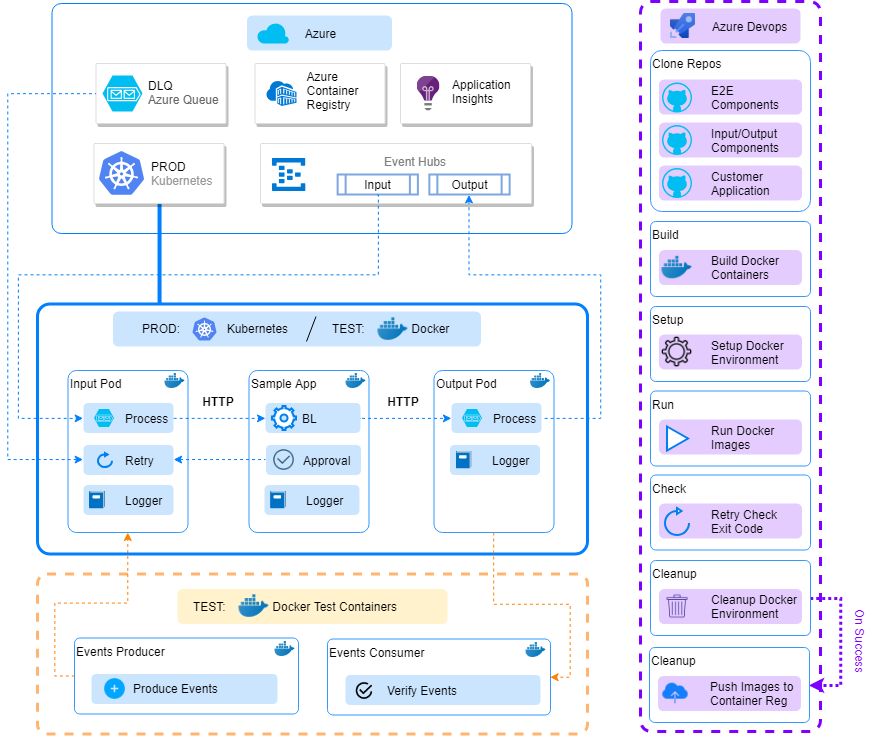
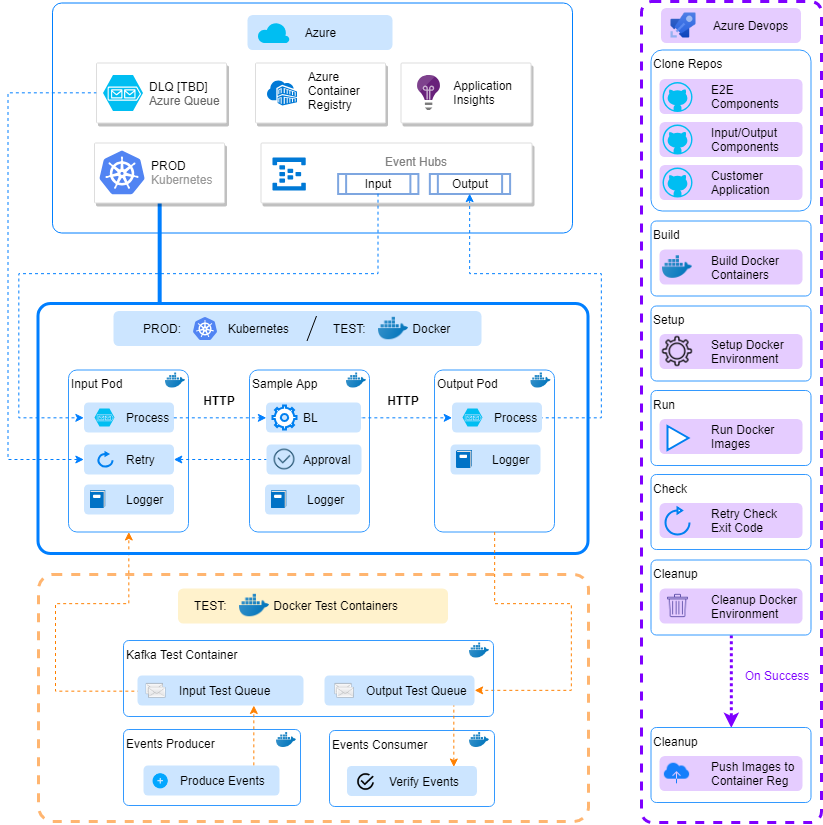
update test containers in design

diff --git a/docs/assets/design/Design.MD b/docs/assets/design/Design.MD
@@ -6,11 +6,18 @@
 
 ## Requirements
 
-- The Azure DevOps pipeline is responsible to get the latest (or specified) branchs of Github code, clone, build run unit tests, linting tests, E2E tests and finally if all tests passed, push the new docker images to a container registry
-- The customer's application is a place holder for any application image. The only requirement is to implement a the HTTP endpoints protocol (TBD)
-- The Input/Output components are responsible to handle the connectivity to the different events hubs, instead of the app itself:
-  - responsible for the interaction with different events sources such as Azure EventHubs, Kafka and HTTP (for batching)
-  - responsible for retrying failed messages
+- The Azure DevOps pipeline is executes the following:
+  - Clone the latest (or specific) branches of a Github repository.
+  - Build the repo.
+  - Run linting and unit tests.
+  - Execute E2E/Validation tests.
+  - If all the tests have passed, push the new docker images to an Azure Container Registry.
+- The Sample Application container is a place holder for any customer application image. That image needs to answer to the following conditions:
+  - Implement a the HTTP endpoints protocol (TBD).
+  - [Optional] Return message handling statuses to the input handler to enable a retry mechanism.
+- The Input/Output components handle the following areas of the data pipeline:
+  - Connectivity to the different types of events sources, such as Azure EventHubs, Kafka and HTTP (for batching)
+  - Retrying failed messages
   - responsible for logging / auditing
 
 ## Testing
